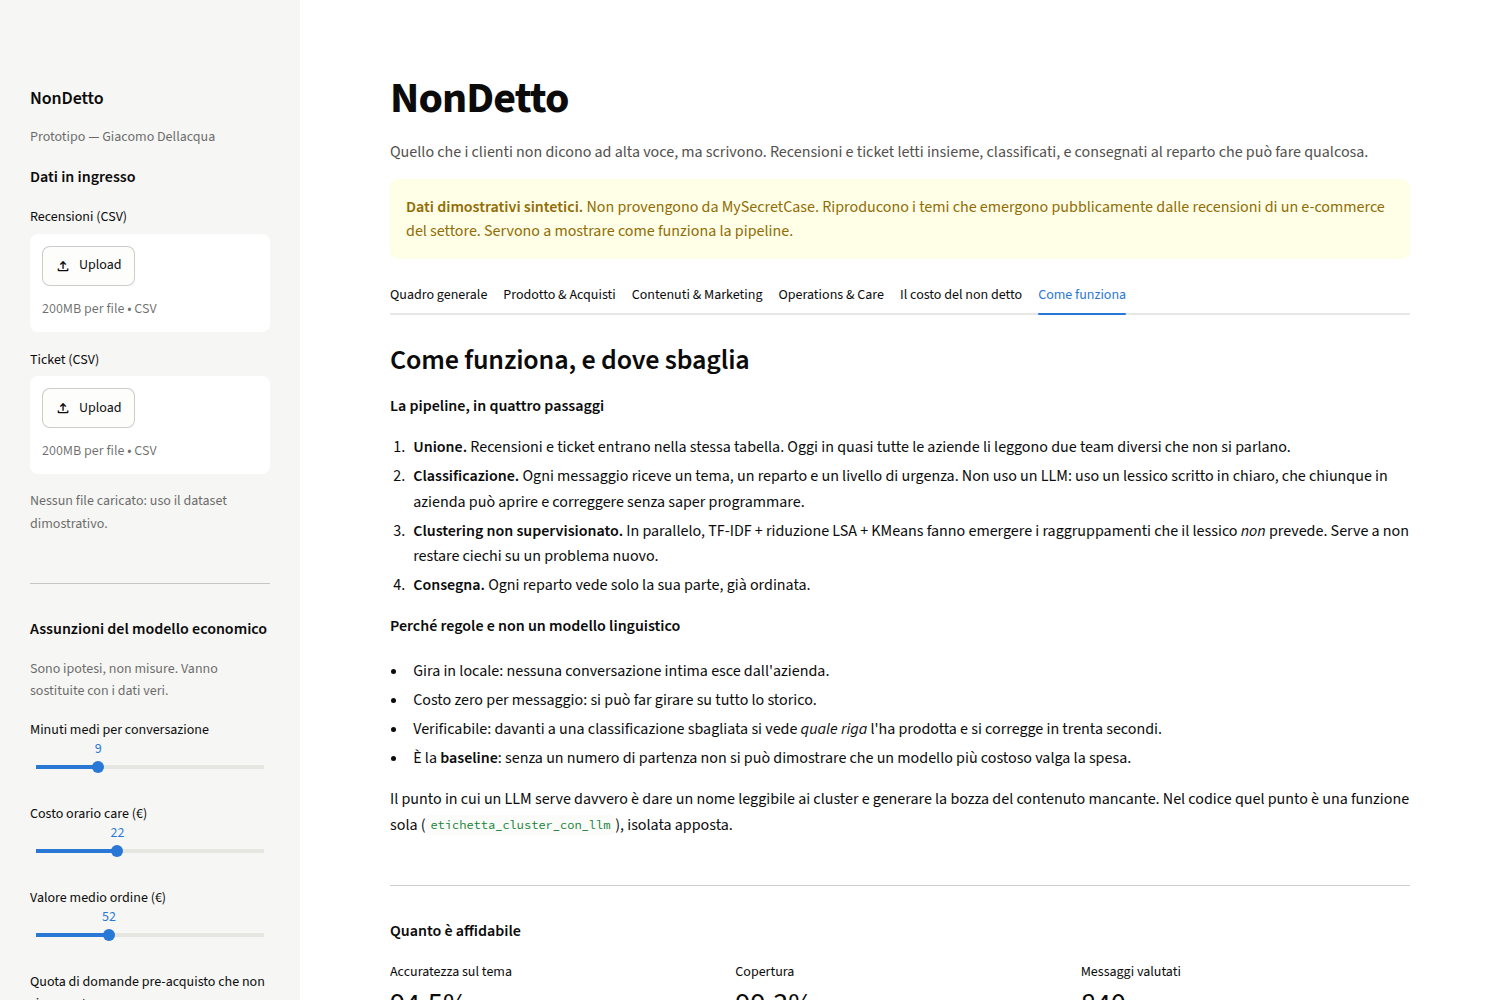
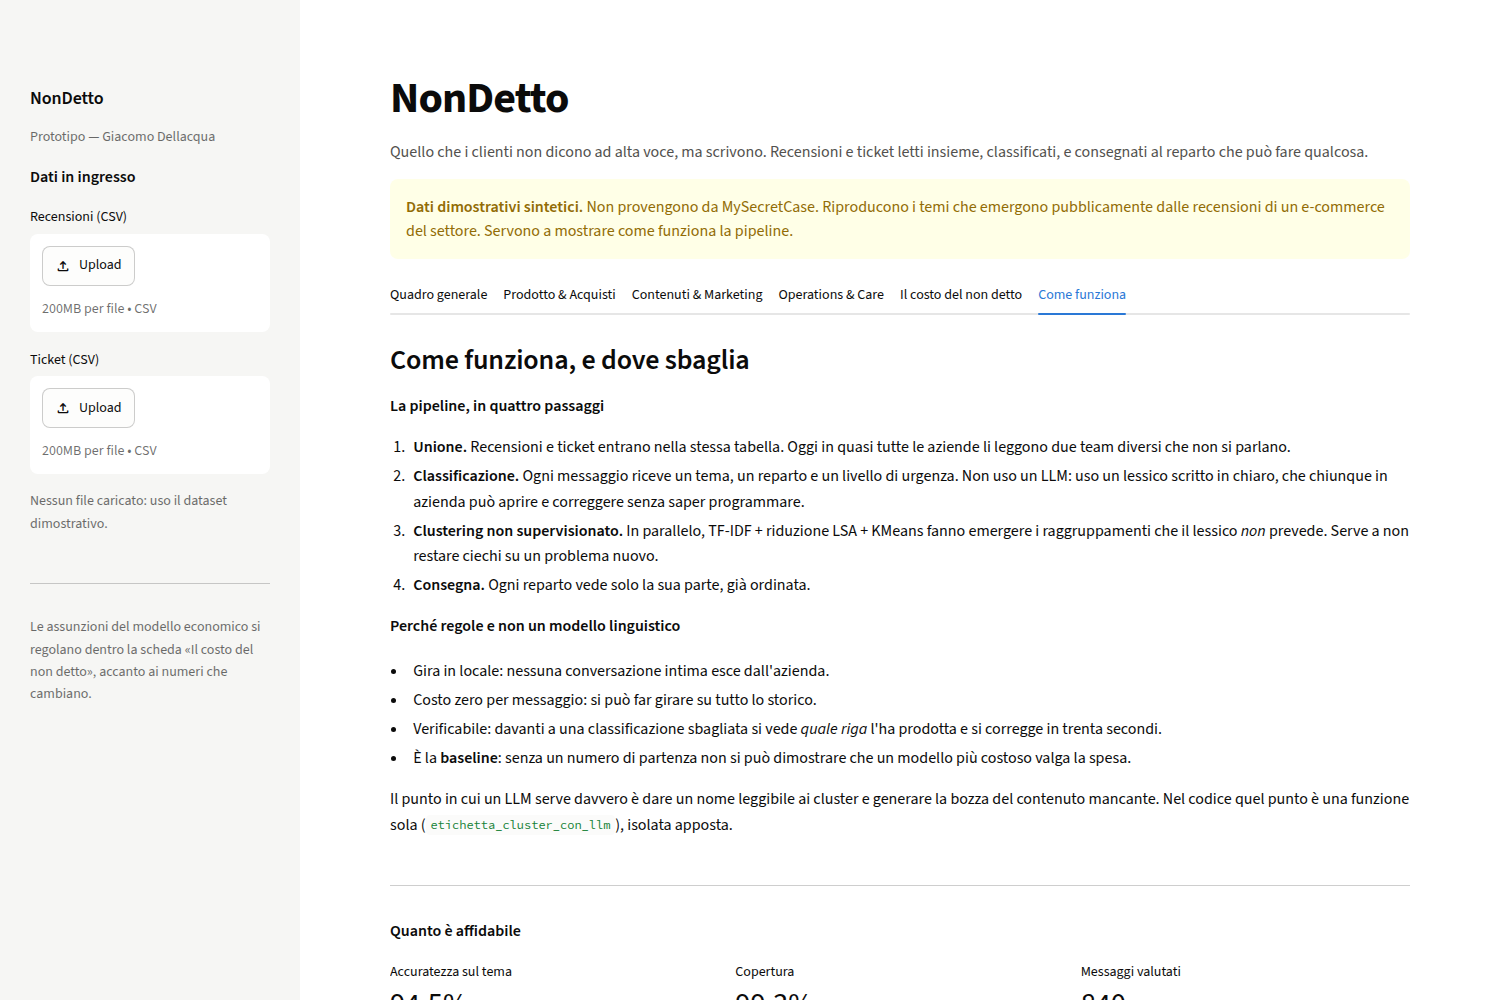
Cursori economici dentro la scheda, con un grafico che risponde
I cursori stavano nella barra laterale e muovevano tre numeri in un'altra
scheda: chi li toccava non vedeva succedere niente. Ora stanno sopra i
numeri che cambiano, e alimentano la scomposizione del costo per tema.

Sostituito l'andamento mensile (rumore: i dati sintetici non hanno
struttura temporale) con il rating medio per tema, che risponde alla
domanda vera: quali temi tirano giu' le stelle.

Changed region(s): [[0.0, 0.62, 0.184, 0.775], [0.0307, 0.806, 0.184, 0.992]]

diff --git a/app.py b/app.py
@@ -93,26 +93,16 @@ with st.sidebar:
         st.caption("Nessun file caricato: uso il dataset dimostrativo.")
 
     st.divider()
-    st.markdown("**Assunzioni del modello economico**")
-    st.caption("Sono ipotesi, non misure. Vanno sostituite con i dati veri.")
-    minuti = st.slider("Minuti medi per conversazione", 3, 25, 9)
-    costo_h = st.slider("Costo orario care (€)", 12, 40, 22)
-    aov = st.slider("Valore medio ordine (€)", 20, 120, 52)
-    perdita = st.slider("Quota di domande pre-acquisto che non si convertono",
-                        0.0, 0.6, 0.25, 0.05)
-
-    st.divider()
-    volume_reale = st.number_input(
-        "Conversazioni reali al mese (per la proiezione)",
-        min_value=0, max_value=100000, value=0, step=500,
-        help="Lascia 0 per vedere solo i numeri del campione.")
+    st.caption(
+        "Le assunzioni del modello economico si regolano dentro la scheda "
+        "«Il costo del non detto», accanto ai numeri che cambiano.")
 
 df = elabora(
     su_rec.getvalue() if su_rec else None,
     su_tck.getvalue() if su_tck else None,
 )
 qualita = pl.accuratezza(df)
-costo = pl.costo_del_non_detto(df, minuti, costo_h, aov, perdita)
+costo = pl.costo_del_non_detto(df)
 mesi = max(1, round((df["data"].max() - df["data"].min()).days / 30))
 
 # ---------------------------------------------------------------------------
@@ -174,43 +164,44 @@ with t1:
                         use_container_width=True)
 
     with col_b:
-        d = df[df["reparto"] != "—"].copy()
-        d["mese"] = d["data"].dt.to_period("M").dt.to_timestamp()
-        piv = d.pivot_table(index="mese", columns="reparto",
-                            values="id", aggfunc="count").fillna(0)
-        # il primo e l'ultimo mese sono quasi sempre parziali: tenerli
-        # disegnerebbe una salita e una caduta che nei dati non ci sono
-        if len(piv) > 3 and df["data"].min().day > 3:
-            piv = piv.iloc[1:]
-        fig2 = go.Figure()
-        for i, rep in enumerate(["Operations & Care", "Contenuti & Marketing",
-                                 "Prodotto & Acquisti"]):
-            if rep not in piv:
-                continue
-            fig2.add_trace(go.Scatter(
-                x=piv.index, y=piv[rep], name=rep, mode="lines+markers",
-                line=dict(color=SERIE[i], width=2),
-                marker=dict(size=8, color=SERIE[i],
-                            line=dict(color="#fcfcfb", width=2)),
-                hovertemplate="%{y} conversazioni<extra>" + rep + "</extra>",
-            ))
-        fig2.update_xaxes(
-            tickmode="array",
-            tickvals=list(piv.index),
-            ticktext=[MESI_IT[d.month - 1][:3] for d in piv.index])
-        fig2.update_layout(legend=dict(orientation="h", y=-0.2, x=0,
-                                       font=dict(color=INK_2, size=11)))
+        # Il rating e' l'unica colonna che dice se un tema fa danno o no.
+        # Un tema con tante conversazioni ma stelle alte non e' un problema;
+        # uno con poche conversazioni e una stella lo e'.
+        rec = df[(df["origine"] == "recensione") & (df["rating"].notna())]
+        r = (rec.groupby("etichetta")
+             .agg(rating=("rating", "mean"), n=("id", "count"))
+             .reset_index())
+        r = r[r["n"] >= 10].sort_values("rating", ascending=False)
+        media = rec["rating"].mean()
+
+        fig2 = go.Figure(go.Bar(
+            x=r["rating"], y=r["etichetta"], orientation="h",
+            marker=dict(color=SERIE[0], line=dict(width=0)),
+            text=[f"{v:.1f}" for v in r["rating"]], textposition="outside",
+            textfont=dict(color=INK_2, size=11), cliponaxis=False,
+            customdata=r["n"],
+            hovertemplate="%{y}<br>%{x:.2f} stelle su %{customdata} recensioni"
+                          "<extra></extra>",
+        ))
+        fig2.update_traces(marker_cornerradius=4)
+        fig2.add_vline(x=media, line=dict(color="#9A8D93", width=2, dash="dash"),
+                       annotation_text=f"media {media:.1f}",
+                       annotation_position="top",
+                       annotation_font=dict(color=INK_2, size=11))
+        fig2.update_xaxes(range=[1, 5.6], dtick=1)
         st.plotly_chart(
-            stile(fig2, 420, "Andamento mensile per reparto", legenda=True),
+            stile(fig2, 420, "Quali temi tirano giù le stelle"),
             use_container_width=True)
 
     st.markdown(
-        f"<p class='nota'>Periodo coperto: {mese_it(df['data'].min())} – "
-        f"{mese_it(df['data'].max())} (≈{mesi} mesi). "
-        f"{len(df[df.origine=='recensione'])} recensioni e "
-        f"{len(df[df.origine=='ticket'])} ticket, letti insieme: "
-        "è la stessa persona che prima scrive all'assistenza e poi lascia "
-        "una stella, ma di solito i due testi li legge gente diversa.</p>",
+        f"<p class='nota'>{len(df[df.origine=='recensione'])} recensioni e "
+        f"{len(df[df.origine=='ticket'])} ticket da {mese_it(df['data'].min())} "
+        f"a {mese_it(df['data'].max())}, letti insieme: è la stessa persona che "
+        "prima scrive all'assistenza e poi lascia una stella, ma di solito i due "
+        "testi li legge gente diversa. &nbsp;·&nbsp; I due grafici vanno letti "
+        "in coppia: a sinistra <b>quanto</b> se ne parla, a destra <b>quanto fa "
+        "male</b>. Un tema in alto a sinistra e in basso a destra è quello da "
+        "cui partire.</p>",
         unsafe_allow_html=True)
 
 # ---------------------------------------------------------------------------
@@ -345,35 +336,78 @@ with t5:
         "Quella parte si può misurare, e si può ridurre scrivendo, non "
         "assumendo.</p>", unsafe_allow_html=True)
 
-    c1, c2, c3 = st.columns(3)
-    c1.metric("Conversazioni evitabili", costo["conversazioni_evitabili"],
-              f"{costo['quota_sul_totale']:.0%} del totale", delta_color="off")
-    c2.metric("Ore di assistenza", f"{costo['ore_care']:.0f} h",
-              f"≈ {costo['costo_care_euro']} € sul campione", delta_color="off")
-    c3.metric("Domande pre-acquisto", costo["domande_preacquisto"],
-              f"≈ {costo['mancato_fatturato_euro']} € di ordini a rischio",
-              delta_color="off")
+    st.markdown("")
+    st.markdown("**Le assunzioni.** Non sono misure: muovile e guarda cosa cambia.")
+    a1, a2, a3, a4, a5 = st.columns(5)
+    minuti = a1.slider("Minuti per conversazione", 3, 25, 9)
+    costo_h = a2.slider("Costo orario care (€)", 12, 40, 22)
+    aov = a3.slider("Valore medio ordine (€)", 20, 120, 52)
+    perdita = a4.slider("Pre-acquisto che non converte", 0.0, 0.6, 0.25, 0.05)
+    volume_reale = a5.number_input("Conversazioni reali/mese", 0, 100000, 0, 500,
+                                   help="0 = mostra solo i numeri del campione")
+
+    costo_t5 = pl.costo_del_non_detto(df, minuti, costo_h, aov, perdita)
+    per_tema = pl.costo_per_tema(df, minuti, costo_h, aov, perdita)
+
+    # se conosco il volume vero, porto tutto a base annua
+    if volume_reale > 0:
+        fattore = volume_reale * 12 / (len(df) / mesi * 12)
+        unita = "all'anno, sul volume che hai indicato"
+    else:
+        fattore = 1.0
+        unita = f"sul campione di {len(df)} conversazioni (≈{mesi} mesi)"
 
     st.markdown("---")
+    c1, c2, c3 = st.columns(3)
+    c1.metric("Conversazioni evitabili", costo_t5["conversazioni_evitabili"],
+              f"{costo_t5['quota_sul_totale']:.0%} del totale", delta_color="off")
+    c2.metric("Ore di assistenza",
+              f"{costo_t5['ore_care'] * fattore:,.0f} h".replace(",", "."),
+              unita, delta_color="off")
+    c3.metric("Impatto economico",
+              f"{(costo_t5['costo_care_euro'] + costo_t5['mancato_fatturato_euro']) * fattore:,.0f} €".replace(",", "."),
+              "assistenza + ordini a rischio", delta_color="off")
+
+    st.markdown("")
+    y = per_tema["etichetta"]
+    assist = per_tema["costo_assistenza"] * fattore
+    ordini = per_tema["ordini_a_rischio"] * fattore
+    totali = assist + ordini
+
+    fig = go.Figure()
+    fig.add_trace(go.Bar(
+        x=assist, y=y, orientation="h", name="Costo di assistenza",
+        marker=dict(color=SERIE[0], line=dict(color="#ffffff", width=1)),
+        hovertemplate="%{y}<br>assistenza: %{x:,.0f} €<extra></extra>"))
+    fig.add_trace(go.Bar(
+        x=ordini, y=y, orientation="h", name="Ordini a rischio",
+        marker=dict(color=SERIE[1], line=dict(color="#ffffff", width=1)),
+        text=[f"{t:,.0f} €".replace(",", ".") for t in totali],
+        textposition="outside", textfont=dict(color=INK_2, size=12),
+        cliponaxis=False,
+        hovertemplate="%{y}<br>ordini a rischio: %{x:,.0f} €<extra></extra>"))
+    fig.update_layout(barmode="stack",
+                      legend=dict(orientation="h", y=-0.22, x=0,
+                                  font=dict(color=INK_2, size=11)))
+    fig.update_xaxes(range=[0, max(totali.max() * 1.25, 1)], tickformat=",.0f",
+                     ticksuffix=" €")
+    st.plotly_chart(
+        stile(fig, 320, f"Dove sta il costo, {unita}", legenda=True),
+        use_container_width=True)
+
+    st.markdown(
+        "<p class='nota'>Guarda le due barre in alto. «Quale prodotto fa per me» "
+        "ha metà delle conversazioni di «Come si usa», ma pesa di più: perché "
+        "una domanda prima dell'acquisto non costa solo tempo di assistenza, "
+        "costa un ordine che non si chiude. È questo che decide da dove "
+        "cominciare, non il conteggio.</p>", unsafe_allow_html=True)
+
     if volume_reale > 0:
-        fattore = volume_reale * 12 / max(1, len(df) / mesi * 12)
-        st.markdown("**Proiezione sul volume reale che hai indicato**")
-        p1, p2, p3 = st.columns(3)
-        ore_anno = costo["ore_care"] / mesi * 12 * fattore
-        eur_anno = costo["costo_care_euro"] / mesi * 12 * fattore
-        ord_anno = costo["mancato_fatturato_euro"] / mesi * 12 * fattore
-        p1.metric("Ore all'anno", f"{ore_anno:,.0f} h".replace(",", "."))
-        p2.metric("Costo assistenza/anno", f"{eur_anno:,.0f} €".replace(",", "."))
-        p3.metric("Ordini a rischio/anno", f"{ord_anno:,.0f} €".replace(",", "."))
         st.markdown(
             "<p class='nota'>La proiezione moltiplica il tasso osservato sul "
             "campione per il volume che hai indicato. Vale quanto vale "
             "l'assunzione: serve a dare un ordine di grandezza, non una cifra "
             "da mettere a budget.</p>", unsafe_allow_html=True)
-    else:
-        st.info(
-            "Imposta «Conversazioni reali al mese» nella barra laterale per "
-            "vedere cosa significa questo tasso sul volume vero.")
 
     st.markdown("---")
     st.markdown("**Da dove si comincia**")

diff --git a/src/pipeline.py b/src/pipeline.py
@@ -387,6 +387,26 @@ def costo_del_non_detto(df, minuti_per_conversazione=9, costo_orario=22,
     }
 
 
+def costo_per_tema(df, minuti_per_conversazione=9, costo_orario=22,
+                   valore_ordine=52, tasso_conversione_perso=0.25):
+    """Scompone il costo del non detto per tema.
+
+    Serve a rispondere alla domanda "da dove comincio": due temi con lo stesso
+    numero di conversazioni possono pesare in modo molto diverso, perche' le
+    domande pre-acquisto non costano solo tempo, costano ordini.
+    """
+    ev = df[df["evitabile"]]
+    g = (ev.groupby(["intento", "etichetta"])
+         .agg(conversazioni=("id", "count")).reset_index())
+    g["costo_assistenza"] = g["conversazioni"] * minuti_per_conversazione / 60 * costo_orario
+    g["ordini_a_rischio"] = 0.0
+    pre = g["intento"] == "scelta_preacquisto"
+    g.loc[pre, "ordini_a_rischio"] = (
+        g.loc[pre, "conversazioni"] * tasso_conversione_perso * valore_ordine)
+    g["totale"] = g["costo_assistenza"] + g["ordini_a_rischio"]
+    return g.sort_values("totale")
+
+
 def backlog_contenuti(df: pd.DataFrame, top=15) -> pd.DataFrame:
     """Ogni domanda ricorrente = un pezzo di contenuto che manca.
     Output pensato per essere passato direttamente a chi scrive."""
